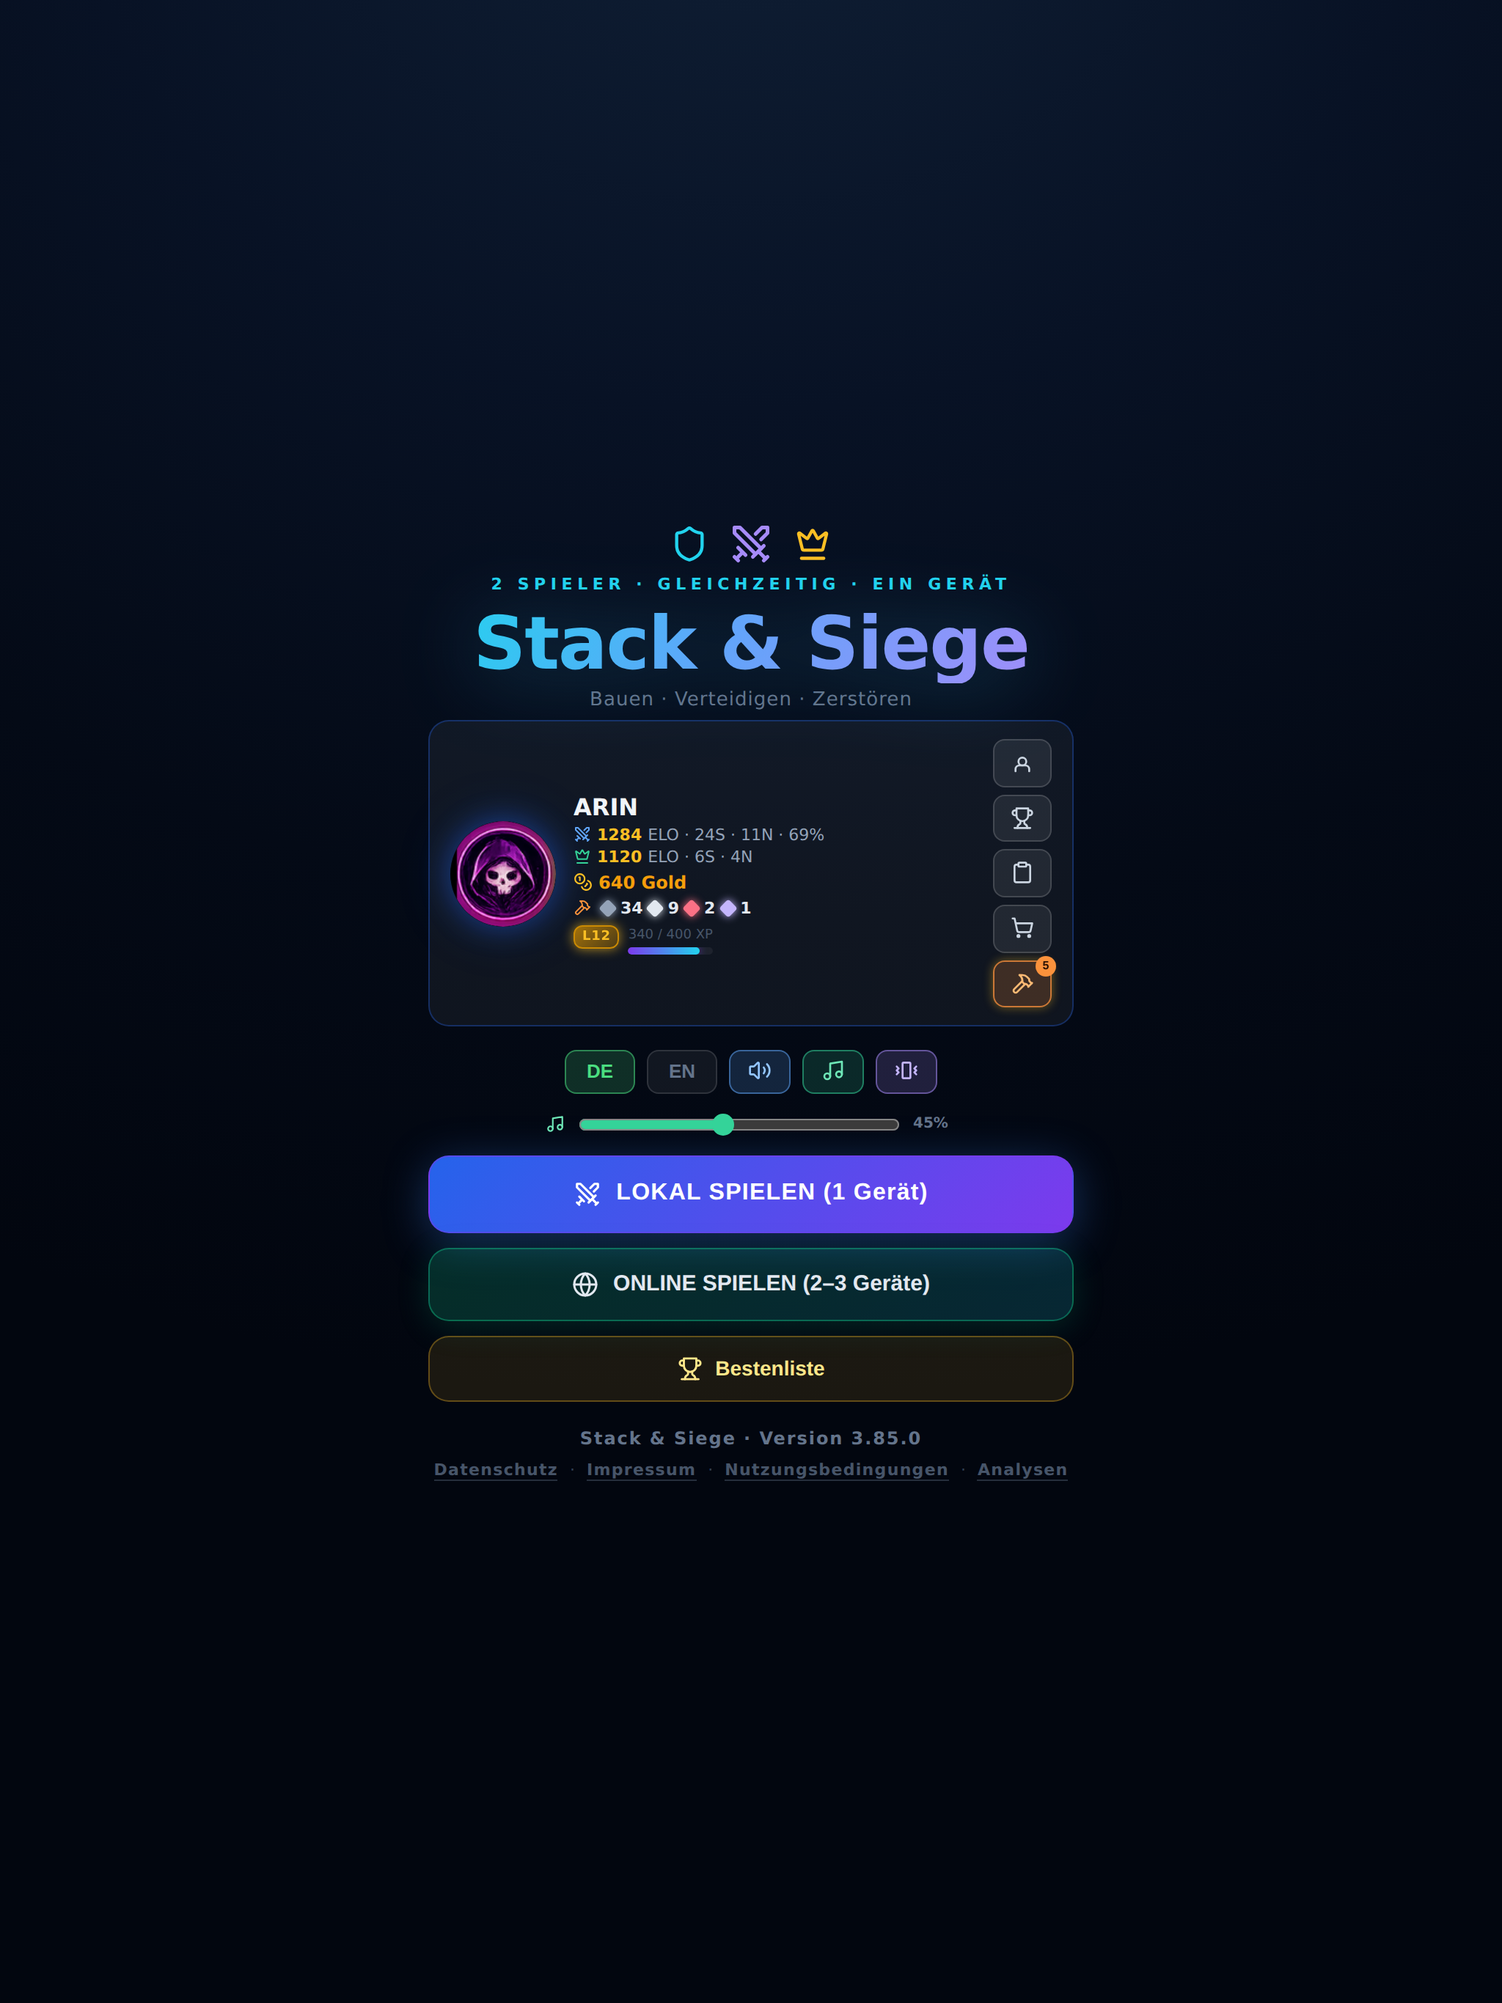
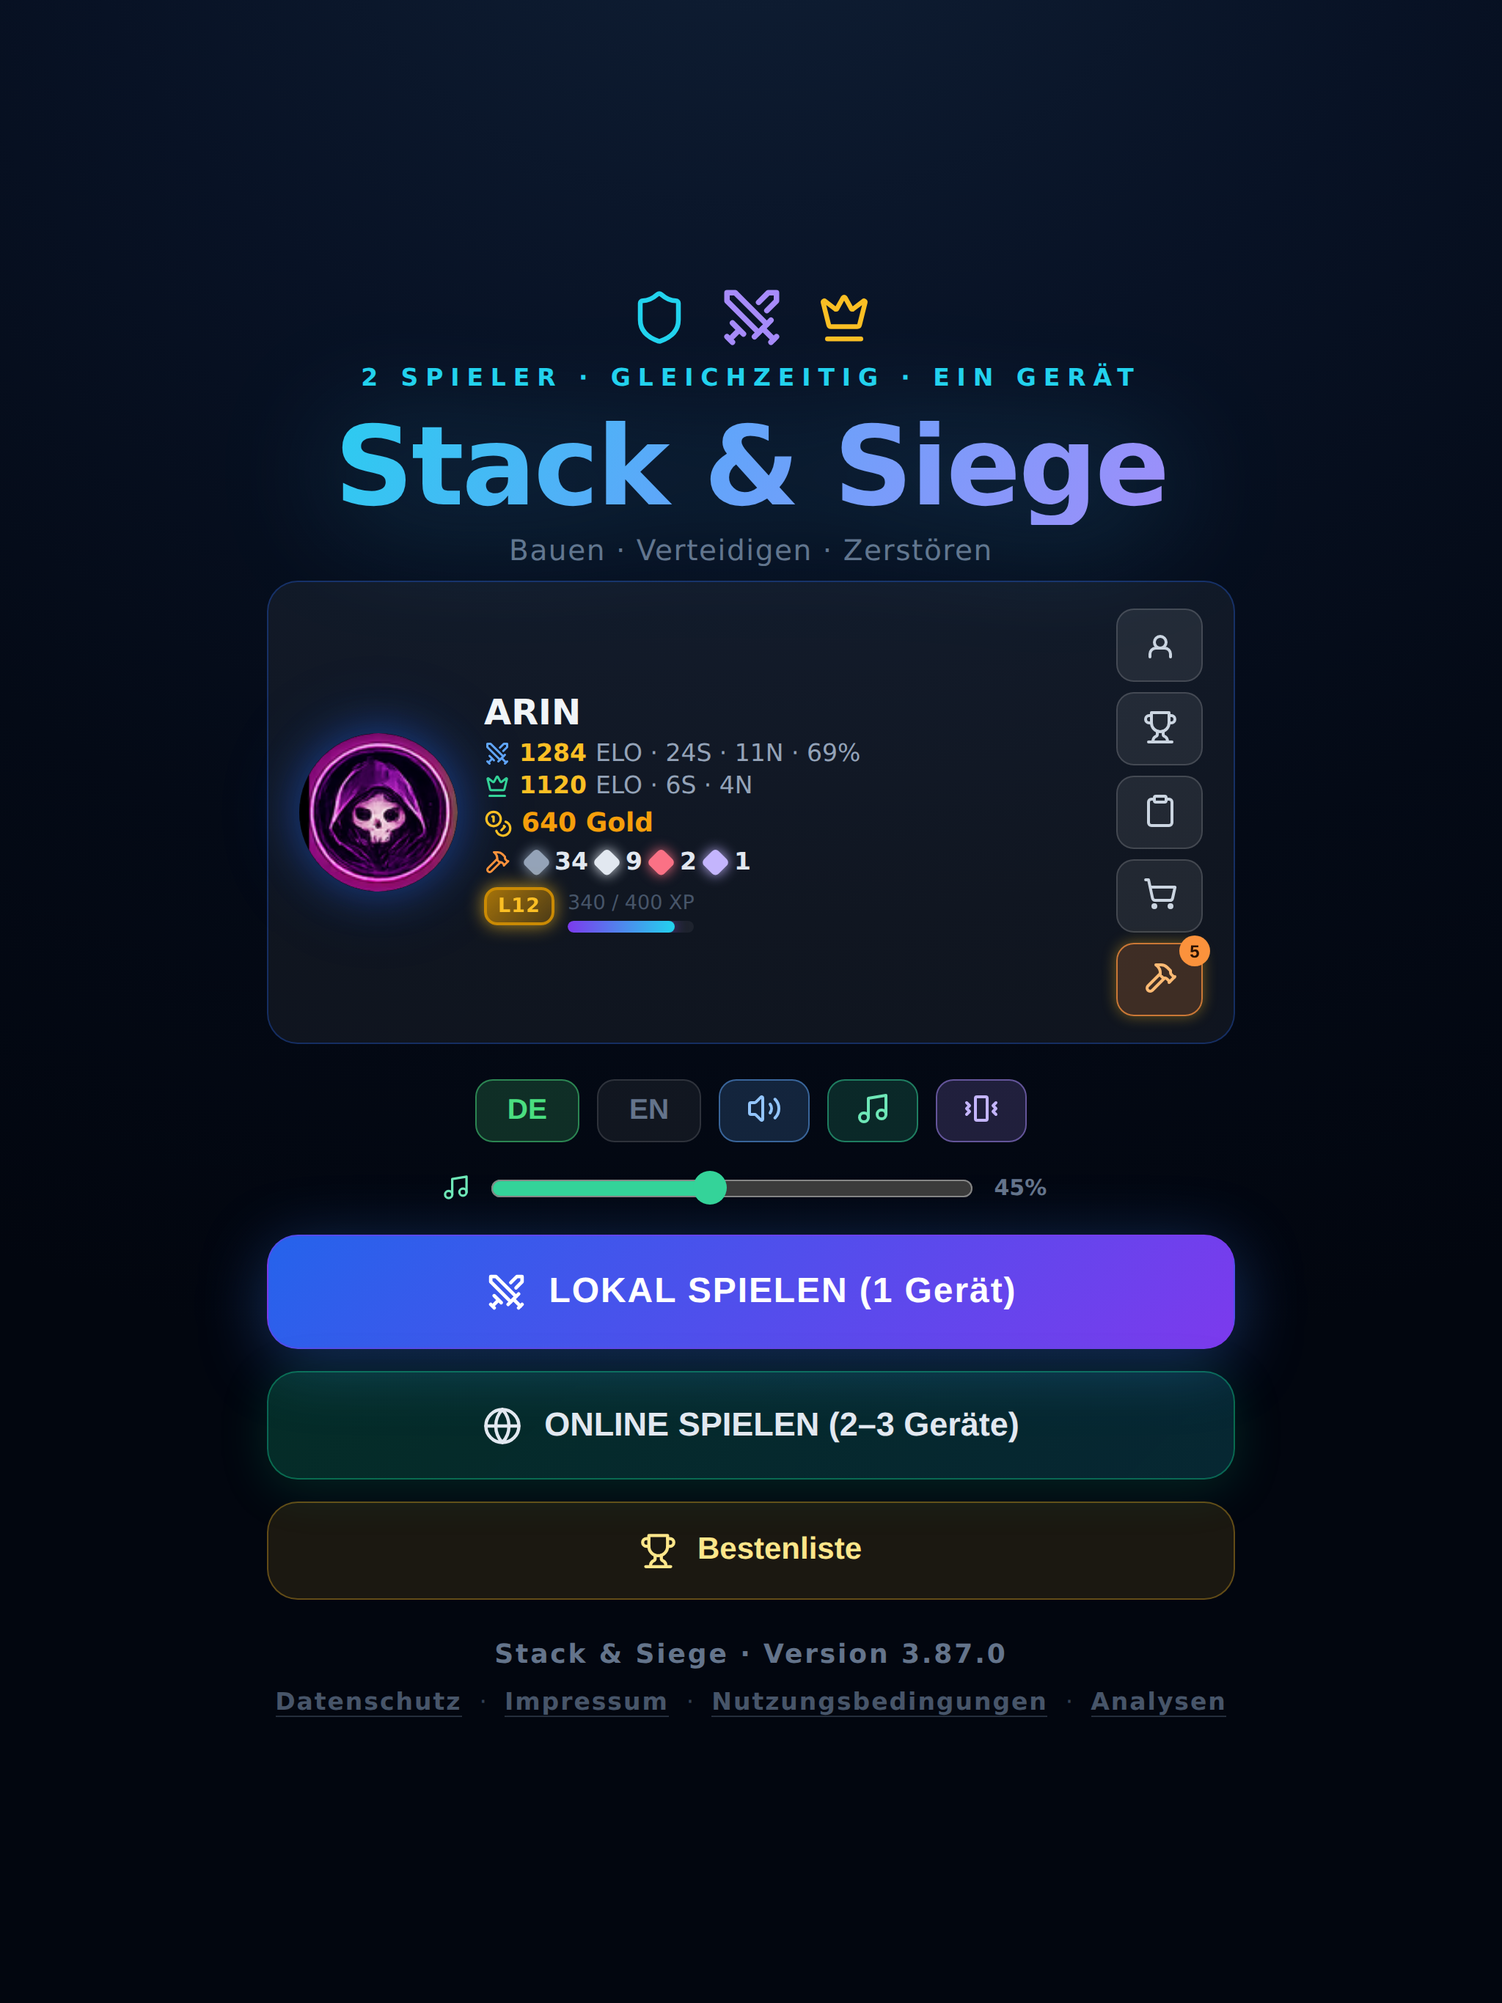
v3.87.0: Das iPad war erlaubt, aber nie eingerichtet
Die App laeuft seit dem ersten Bau auf dem iPad - TARGETED_DEVICE_FAMILY steht
auf "1,2", die iPad-Bilder liegen seit dem 12.09. im Store-Ordner. Gesetzt war
dafuer aber nichts. Erst gemessen, dann entschieden:

  iPhone 15 Pro  hoch   Brett 71 %   Menuespalte 361 px (92 %)
  iPad mini      hoch   Brett 73 %   Menuespalte 440 px (59 %)
  iPad 12,9"     hoch   Brett 68 %   Menuespalte 440 px (43 %)
  iPad Air       quer   Brett 29 %
  iPad 12,9"     quer   Brett 35 %

Zwei verschiedene Befunde, zwei verschiedene Antworten.

QUERFORMAT: gesperrt, nicht repariert. Die Ursache ist nicht das Layout,
sondern das Brett selbst - 44x68 Zellen sind 616x952 Punkte, also hoch. Quer
ist die Hoehe die knappe Richtung, links und rechts bleiben je ~400 px tot.
Ein Querformat-Layout mit Seitenspalten kaeme auf ~48 %, dafuer muessten
Kopfzeile und Unterleiste ein zweites Mal gebaut und geprueft werden. Dagegen
steht, wie das Spiel benutzt wird: zwei Spieler an einem Geraet sitzen sich an
den KURZEN Kanten gegenueber. Hochkant ist nicht die Notloesung, sondern die
Haltung, fuer die das Spiel gemacht ist. Info.plist fuehrt fuer ~ipad nur noch
Portrait und PortraitUpsideDown.

HOCHFORMAT: das Brett war schon richtig (68-73 %, wie auf dem iPhone), die
Oberflaeche nicht. Menue und Ergebnis sind fuer ein Telefon gesetzt - Spalte
440 px, Karten 320 px, Schrift in festen Pixeln - und stranden auf 1024 px
Breite als Streifen in der Mitte. Zwei CSS-Regeln, gestaffelt nach Breite UND
[…]

Changed region(s): [[0.1562, 0.1245, 0.8438, 0.8712], [0.1875, 0.84, 0.3125, 0.8712], [0.7188, 0.84, 0.8125, 0.8712]]

diff --git a/src/game/app.js b/src/game/app.js
@@ -642,7 +642,7 @@ window.StackSiegeApp = function StackSiegeApp() {
           animation: "fwBurst 1.6s " + delay + "s ease-out infinite", pointerEvents: "none"
         } });
       });
-      return React.createElement("div", { style: { position: "fixed", inset: 0, overflow: "hidden", pointerEvents: "none", zIndex: 5 } }, ...bursts);
+      return React.createElement("div", { className: "kein-zoom", style: { position: "fixed", inset: 0, overflow: "hidden", pointerEvents: "none", zIndex: 5 } }, ...bursts);
     }
     if (kind === "win_goldrain") {
       // Gezeichnete Münzen statt Emoji (v3.29.1): Gold-Verlauf + Prägerand
@@ -659,10 +659,10 @@ window.StackSiegeApp = function StackSiegeApp() {
           animation: "coinFall " + dur + "s " + delay + "s linear infinite", pointerEvents: "none"
         } });
       });
-      return React.createElement("div", { style: { position: "fixed", inset: 0, overflow: "hidden", pointerEvents: "none", zIndex: 5 } }, ...coins);
+      return React.createElement("div", { className: "kein-zoom", style: { position: "fixed", inset: 0, overflow: "hidden", pointerEvents: "none", zIndex: 5 } }, ...coins);
     }
     // Standard: Konfetti über die volle Breite
-    return React.createElement("div", { style: { position: "fixed", left: 0, right: 0, top: 0, pointerEvents: "none", zIndex: 5 } },
+    return React.createElement("div", { className: "kein-zoom", style: { position: "fixed", left: 0, right: 0, top: 0, pointerEvents: "none", zIndex: 5 } },
       React.createElement(ConfettiBurst, { active: true }));
   }
   // ── Schmiede-Enthüllung (v3.40.0): Rarität + episches Reveal-Overlay ──
@@ -7175,7 +7175,7 @@ window.StackSiegeApp = function StackSiegeApp() {
     color: "#eef2f9",
     padding: 16,
     boxSizing: "border-box"
-  } }, /* @__PURE__ */ React.createElement("div", { style: { textAlign: "center", maxWidth: 440, width: "100%", margin: "auto 0" } }, /* @__PURE__ */ React.createElement("div", { style: { display: "flex", alignItems: "center", justifyContent: "center", gap: 14, marginBottom: 6, color: "#60a5fa" } }, /* @__PURE__ */ React.createElement(Icon, { name: "shield", size: 26, color: "#22d3ee" }), /* @__PURE__ */ React.createElement(Icon, { name: "swords", size: 30, color: "#a78bfa" }), /* @__PURE__ */ React.createElement(Icon, { name: "crown", size: 26, color: "#fbbf24" })), /* @__PURE__ */ React.createElement("div", { style: { fontSize: 11, letterSpacing: "0.3em", color: "#22d3ee", marginBottom: 8, fontWeight: 600 } }, t('tagline')), /* @__PURE__ */ React.createElement("h1", { style: {
+  } }, /* @__PURE__ */ React.createElement("div", { className: "gross-spalte", style: { textAlign: "center", maxWidth: 440, width: "100%", margin: "auto 0" } }, /* @__PURE__ */ React.createElement("div", { style: { display: "flex", alignItems: "center", justifyContent: "center", gap: 14, marginBottom: 6, color: "#60a5fa" } }, /* @__PURE__ */ React.createElement(Icon, { name: "shield", size: 26, color: "#22d3ee" }), /* @__PURE__ */ React.createElement(Icon, { name: "swords", size: 30, color: "#a78bfa" }), /* @__PURE__ */ React.createElement(Icon, { name: "crown", size: 26, color: "#fbbf24" })), /* @__PURE__ */ React.createElement("div", { style: { fontSize: 11, letterSpacing: "0.3em", color: "#22d3ee", marginBottom: 8, fontWeight: 600 } }, t('tagline')), /* @__PURE__ */ React.createElement("h1", { style: {
     // v3.80.0: Der Name hat 13 Zeichen statt 8. Mit den alten 14vw lief er
     // auf einem schmalen Telefon rechts aus dem Bild. Gemessen, nicht geraten
     // — siehe Changelog.
@@ -7340,7 +7340,7 @@ window.StackSiegeApp = function StackSiegeApp() {
       try { localStorage.setItem('fortress_perf', perfAn.current ? '1' : '0'); } catch (e) {}
       setPerfSichtbar(perfAn.current);
     }
-  }, style: { marginTop: 18, fontSize: 12, color: "#64748b", letterSpacing: "0.08em", fontWeight: 600, cursor: "default" } }, "Stack & Siege \xB7 Version 3.86.0"), // **Rechtslinks nur im Browser.** In der App sind Impressum und
+  }, style: { marginTop: 18, fontSize: 12, color: "#64748b", letterSpacing: "0.08em", fontWeight: 600, cursor: "default" } }, "Stack & Siege \xB7 Version 3.87.0"), // **Rechtslinks nur im Browser.** In der App sind Impressum und
     // Nutzungsbedingungen auf dem Startbildschirm fehl am Platz: Dort steht
     // kein Anbieter zur Auswahl, und Apple verlangt die Datenschutzadresse in
     // den Store-Angaben, nicht in der App. Geprueft wird ueber die EINE
@@ -8755,7 +8755,7 @@ window.StackSiegeApp = function StackSiegeApp() {
       textAlign: "center"
     });
     const LABEL = { fontSize: 9, color: "#64748b", letterSpacing: "0.1em", fontWeight: 700, textTransform: "uppercase", marginBottom: 5 };
-    return React.createElement("div", { style: {
+    return React.createElement("div", { className: "gross-schirm", style: {
       background: "radial-gradient(ellipse at 50% 5%,#180f30 0%,#06080f 65%)",
       // Siehe Spiel-Huelle: 100% des bereits verkuerzten Koerpers, nicht 100dvh.
       // "safe center" zentriert nur, SOLANGE der Inhalt passt; wird er hoeher
@@ -8777,7 +8777,7 @@ window.StackSiegeApp = function StackSiegeApp() {
     // ── SIEGES-EFFEKT (v3.23.0): gekaufter Kosmetik-Effekt bei eigenem Sieg ──
     wonState && !drawn && React.createElement(WinFx, { kind: cosOf(profile).equipped.win }),
     // ── EINMALIGER FARBBLITZ (v3.40.0): dramatischer Einstieg Sieg/Niederlage ──
-    !drawn && React.createElement("div", { key: "resflash", style: {
+    !drawn && React.createElement("div", { key: "resflash", className: "kein-zoom", style: {
       position: "fixed", inset: 0, zIndex: 1, pointerEvents: "none",
       background: wonState ? "rgba(251,191,36,0.55)" : "rgba(239,68,68,0.5)",
       animation: "revealFlash 0.8s ease-out both"

diff --git a/index.html b/index.html
@@ -18,7 +18,7 @@
   <link rel="apple-touch-icon" href="icon-192.png"/>
   <link rel="icon" type="image/png" sizes="192x192" href="icon-192.png"/>
   <link rel="icon" type="image/png" sizes="512x512" href="icon-512.png"/>
-  <title>Stack &amp; Siege v3.86.0</title>  <style>    /* iOS-Lupen-Fix (v3.32.1): user-select auf html/body reicht Safari
+  <title>Stack &amp; Siege v3.87.0</title>  <style>    /* iOS-Lupen-Fix (v3.32.1): user-select auf html/body reicht Safari
     nicht — die Text-Lupe erschien beim Ziehen über HUD-/Shop-Texte. Global
     deaktivieren + Long-Press-Callout & Tap-Highlight aus; Eingabefelder
     behalten Textauswahl (Regel darunter). */
@@ -66,6 +66,39 @@
        haengt es an seiner Oberkante, und die setzt der Spielcode direkt
        unter die gemessene Kopfzeile. */
     @keyframes phasebanner{0%{opacity:0;transform:translateX(-50%) scale(0.75)}14%{opacity:1;transform:translateX(-50%) scale(1.04)}20%{transform:translateX(-50%) scale(1)}76%{opacity:1;transform:translateX(-50%) scale(1)}100%{opacity:0;transform:translateX(-50%) scale(0.93)}}
+    /* ── Tablet-Massstab (v3.87.0) ────────────────────────────────────────
+       Menue und Ergebnis sind fuer ein Telefon gesetzt: eine Spalte von
+       440 px, Karten von 320 px, Schrift in festen Pixeln. Auf einem iPad
+       von 1024 px Breite strandet das als schmaler Streifen in der Mitte —
+       gemessen: die Spalte fuellt 43 %, die Ergebniskarten 31 % der Breite.
+       Das ist kein Fehler, es ist eine Telefon-Oberflaeche in einem grossen
+       Rahmen, und genau so sieht sie aus.
+
+       `zoom` vergroessert Spalte UND Schrift in einem Zug. Es wirkt — anders
+       als `transform: scale()` — auf das Layout: der rollbare Kasten weiss
+       weiterhin, wie hoch sein Inhalt ist, und was nicht mehr passt, bleibt
+       erreichbar. Mit einer Transformation waere der obere Rand eines zu
+       hohen Inhalts unerreichbar geworden.
+
+       NICHT auf das Spielfeld: `fit()` rechnet dort mit gemessenen Pixeln
+       (Brettgroesse, Kopfzeilenhoehe, Unterleiste). Eine Zoomstufe im Spiel
+       hiesse, dass gemessene und gezeichnete Pixel auseinanderlaufen — genau
+       der Fehler, der in v3.84.0/v3.85.0 die Unterleiste abgeschnitten hat.
+       Das Brett fuellt im Hochformat ohnehin schon 68-73 % des iPads, also
+       genauso viel wie auf dem iPhone; dort ist nichts zu holen.
+
+       Zwei Stufen statt stufenlos: So gibt es genau zwei Zustaende zu pruefen.
+       Die Hoehenbedingung haelt Telefone im Querformat heraus (852x393). */
+    @media (min-width:700px) and (min-height:900px){
+      .gross-spalte{zoom:1.34}
+      .gross-schirm > *{zoom:1.34}
+      .gross-schirm > .kein-zoom{zoom:1}
+    }
+    @media (min-width:960px) and (min-height:1200px){
+      .gross-spalte{zoom:1.5}
+      .gross-schirm > *{zoom:1.5}
+      .gross-schirm > .kein-zoom{zoom:1}
+    }
     @keyframes glowpulse{0%,100%{opacity:0.6}50%{opacity:1}}
     @keyframes lvlUpFlash{0%{opacity:0;transform:scale(0.8)}40%{opacity:1;transform:scale(1.1)}70%{transform:scale(0.96)}100%{opacity:1;transform:scale(1)}}
     @keyframes xpBarGlow{0%,100%{box-shadow:0 0 6px rgba(124,58,237,0.5)}50%{box-shadow:0 0 16px rgba(34,211,238,0.9)}}

diff --git a/FORTRESS-SPEC.md b/FORTRESS-SPEC.md
@@ -1,4 +1,4 @@
-# Stack & Siege — Spezifikation & Regelwerk (aktuell: v3.86.0)> Diese Datei ist die **verbindliche Prüfgrundlage** für alle Änderungen am Spiel.
+# Stack & Siege — Spezifikation & Regelwerk (aktuell: v3.87.0)> Diese Datei ist die **verbindliche Prüfgrundlage** für alle Änderungen am Spiel.
 > Vor jeder Code-Änderung wird gegen diese Spec geprüft. Wenn eine Änderung
 > einer Regel widerspricht, wird das gemeldet bevor etwas umgesetzt wird.
 > Bei bewussten Regeländerungen wird diese Datei mit aktualisiert.
@@ -5742,3 +5742,91 @@ diesen Kanal gar nichts gemeldet wird. Das Abschalten selbst kann nur das
 Geraet bestaetigen.
 
 Tests gruen (Unit 70/70, E2E 369/369, Typen 0 Fehler).
+
+---
+
+## v3.87.0 — Das iPad war erlaubt, aber nie eingerichtet
+
+Die App laeuft seit dem ersten Bau auf dem iPad: `TARGETED_DEVICE_FAMILY` steht
+auf `"1,2"`, und die iPad-Bildschirmfotos liegen seit dem 12.09. im Store-Ordner.
+Nur *gesetzt* war dafuer nichts. Vorher gemessen, auf vier Geraetemassen:
+
+| Geraet | Brett | Anteil am Schirm | Menuespalte |
+|---|---|---|---|
+| iPhone 15 Pro 393×852 | 391×604 | **71 %** | 361 px (92 %) |
+| iPad mini 744×1133 | 631×975 | 73 % | 440 px (59 %) |
+| iPad 12,9" 1024×1366 | 782×1209 | 68 % | 440 px (**43 %**) |
+| iPad Air quer 1180×820 | 429×663 | **29 %** | — |
+| iPad 12,9" quer 1366×1024 | 561×867 | **35 %** | — |
+
+Daraus folgen zwei verschiedene Befunde, und sie brauchen zwei verschiedene
+Antworten.
+
+### Querformat: gesperrt, nicht repariert
+
+Im Querformat fuellt das Brett 29–35 % statt 68–73 %. Die Ursache ist nicht das
+Layout, sondern das Brett selbst: 44×68 Zellen sind 616×952 Punkte, also hoch.
+Auf einem querliegenden iPad ist die Hoehe die knappe Richtung, und links und
+rechts bleiben je ~400 px tot liegen. Ein Querformat-Layout mit Seitenspalten
+koennte auf ~48 % kommen — dafuer muessten Kopfzeile und Unterleiste ein zweites
+Mal gebaut und ein zweites Mal geprueft werden.
+
+Dagegen steht, wie das Spiel benutzt wird: zwei Spieler an einem Geraet sitzen
+sich an den *kurzen* Kanten gegenueber. Hochkant ist nicht die Notloesung,
+sondern die Haltung, fuer die das Spiel gemacht ist. `Info.plist` fuehrt fuer
+`~ipad` deshalb nur noch `Portrait` und `PortraitUpsideDown`. Ein
+hochformatgebundenes Spiel ist bei Apple zulaessig; `UIRequiresFullScreen`
+stand ohnehin schon auf `true`, Split View war also nie vorgesehen.
+
+### Hochformat: das Brett war richtig, die Oberflaeche nicht
+
+Das Brett fuellt hochkant schon 68–73 % — genauso viel wie auf dem iPhone.
+Dort war nichts zu holen. Menue und Ergebnis dagegen sind fuer ein Telefon
+gesetzt: eine Spalte von 440 px, Karten von 320 px, Schrift in festen Pixeln.
+Auf 1024 px Breite strandet das als Streifen in der Mitte (43 % bzw. 31 %).
+Das ist kein Fehler — es ist eine Telefon-Oberflaeche in einem grossen Rahmen,
+und genau so sieht sie aus.
+
+Zwei CSS-Regeln, gestaffelt nach Breite UND Hoehe (die Hoehe haelt Telefone im
+Querformat heraus), vergroessern Menue und Ergebnis mit `zoom`:
+
+| | vorher | nachher |
+|---|---|---|
+| Menuespalte iPad mini | 440 px (59 %) | 590 px (79 %) |
+| Menuespalte iPad 12,9" | 440 px (43 %) | 660 px (**64 %**) |
+| Ergebniskarten iPad 12,9" | 320 px (31 %) | 480 px (47 %) |
+| Menuespalte iPhone | 361 px | **361 px** |
+
+`zoom` statt `transform: scale()`, weil es auf das Layout wirkt: der rollbare
+Kasten weiss weiterhin, wie hoch sein Inhalt ist, und was nicht mehr passt,
+bleibt erreichbar. Eine Transformation haette den oberen Rand eines zu hohen
+Inhalts unerreichbar gemacht — denselben Fehler, den der Kommentar an der
+Menuespalte seit v3.85.0 ausdruecklich vermeidet.
+
+**Das Spielfeld bekommt keine Zoomstufe.** `fit()` rechnet dort mit gemessenen
+Pixeln — Brettgroesse, Kopfzeilenhoehe, Unterleiste. Eine Zoomstufe darueber
+liesse gemessene und gezeichnete Pixel auseinanderlaufen, und das ist genau der
+Fehler, der in v3.84.0/v3.85.0 die Unterleiste vom iPhone geschnitten hat. Eine
+eigene Pruefung haelt das fest.
+
+### Was die Pruefung leistet — und was nicht
+
+Neue Suite `suiteIPad` (15 Pruefungen): Querformat aus der `Info.plist`, Menue-
+und Brettanteil auf iPad mini und iPad 12,9", Unterleiste im Bild, Spielfeld
+ohne Zoomstufe, Ergebniskarten ohne Ueberlauf — und als Kontrollversuch, dass
+das **Telefon unveraendert** bleibt (361 px ≤ 440). Eine Regel, die ueberall
+greift, waere keine Tablet-Regel.
+
+Eine Pruefung wurde dabei wieder verworfen, weil sie leer war: dass die
+bildfuellenden Ueberlagerungen des Ergebnisschirms (Farbblitz, Sieges-Effekt)
+ihre Groesse behalten. Im Kontrollversuch — Ausnahme entfernt — blieb sie gruen,
+denn Chromium wendet `zoom` auf `position:fixed; inset:0` gar nicht erst an.
+Sie konnte nicht fehlschlagen. An ihrer Stelle steht jetzt die Frage, die hier
+beantwortbar ist und wirklich schuetzt: dass jede solche Ueberlagerung die
+Ausnahme `kein-zoom` traegt. Wer eine neue hinzufuegt und sie vergisst, faellt
+auf. Ob WebKit den Zoom anders rechnet als Chromium, kann nur das Geraet sagen.
+
+Store-Bilder fuer `ipad-13` und `ipad-12.9` neu aufgenommen — die alten zeigten
+den Zustand vorher.
+
+Tests gruen (Unit 70/70, E2E 384/384, Typen 0 Fehler).
